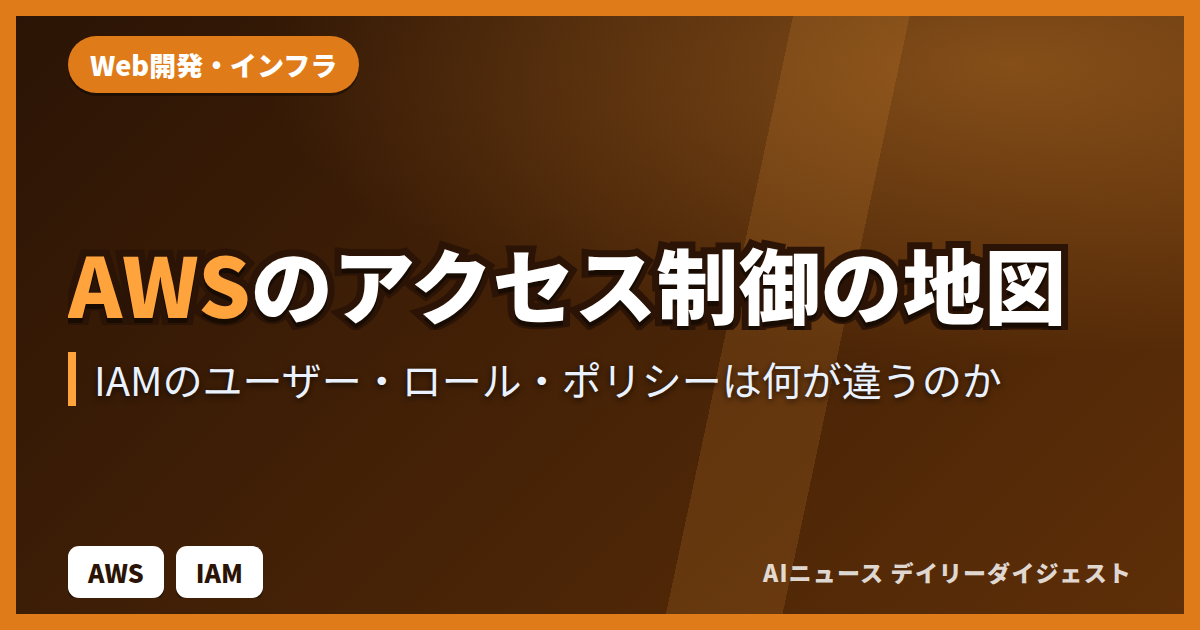
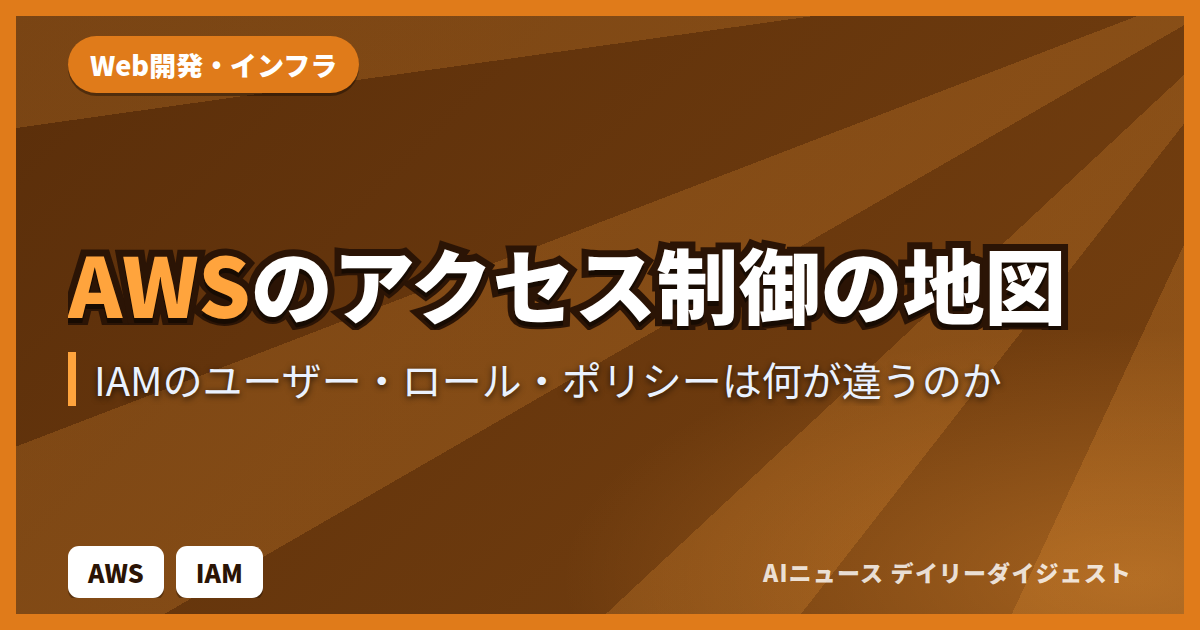
サムネイルの背景を日替わりにした
デイリーは毎日出るうえ全部同じ青なので、柄が固定だと「文字だけ違う同じ絵」が
並ぶ。キャラクター画像に頼らず、背景そのものを日ごとに変えるようにした。

variant_for() が記事ディレクトリ名の日付から、柄(6種)と濃さ(4段階)を選ぶ。
- 連続する日は必ず違う柄になる
- 同日2号目は3つずらすので、翌日ともぶつからない
  (最初 1つずらしにしたら 8/14号外 と 8/15 が同じ柄になった)
- 乱数は使わない。撮り直しても同じ絵になる

柄は最初かなり弱くして一目で分からなかったので、大きく・濃くし直した。
細かい網目は幅400pxのカードでは消える。カテゴリの色そのものは変えていない
(色で種類が分かる、という利点を壊さないため)。

全25枚を目視確認。重複なし。表示検証52通りで問題なし。

diff --git a/_render_thumbs.py b/_render_thumbs.py
@@ -79,6 +79,63 @@ DASH = re.compile(r"\s*[—–―]\s*")          # タイトルの「主題 — 
 DAILY = re.compile(r"^AI-news：\s*([\d/]+)(\s*号外)?\s*$")
 
 
+# 背景の柄。日付で切り替えて、毎日同じ絵にならないようにする。
+# カテゴリの色そのものは変えない(色で種類が分かる、という利点を壊さないため)。
+PATTERNS = {
+    # 縮小表示でも分かるよう、柄は「大きく・濃く」する。
+    # 細かい網目は 400px 幅のカードでは消えてしまう。
+    "band":  ("linear-gradient(102deg, transparent 46%, {a}3a 46%, {a}3a 60%, "
+              "transparent 60%, transparent 66%, {a}22 66%, {a}22 72%, transparent 72%)"),
+    "rays":  ("repeating-conic-gradient(from 196deg at 112% -12%, "
+              "{a}30 0deg 9deg, transparent 9deg 22deg)"),
+    "dots":  "radial-gradient({a}4a 6px, transparent 6.5px) 0 0/62px 62px",
+    "grid":  ("repeating-linear-gradient(0deg, {a}2e 0 2px, transparent 2px 78px),"
+              "repeating-linear-gradient(90deg, {a}2e 0 2px, transparent 2px 78px)"),
+    "waves": "repeating-linear-gradient(58deg, {a}30 0 7px, transparent 7px 54px)",
+    "blob":  ("radial-gradient(46% 58% at 8% 92%, {a}42 0%, transparent 62%),"
+              "radial-gradient(38% 48% at 74% 2%, {a}36 0%, transparent 64%),"
+              "radial-gradient(26% 34% at 44% 52%, {a}20 0%, transparent 66%)"),
+}
+PATTERN_KEYS = list(PATTERNS)
+
+# 明るさの振り幅。同じカテゴリ色のまま、濃さと光の位置だけ日替わりにする。
+TONES = [
+    dict(glow="110% 85% at 85% 8%",   mix=0.00),
+    dict(glow="95% 80% at 10% 14%",   mix=0.18),
+    dict(glow="120% 95% at 58% 108%", mix=0.08),
+    dict(glow="85% 72% at 96% 94%",   mix=0.26),
+]
+
+
+def _mix(hex_color, other, ratio):
+    """2色を混ぜる。同系色のまま濃さだけ動かすのに使う。"""
+    def rgb(h):
+        h = h.lstrip("#")
+        return [int(h[i:i + 2], 16) for i in (0, 2, 4)]
+    a, b = rgb(hex_color), rgb(other)
+    return "#%02x%02x%02x" % tuple(int(x + (y - x) * ratio) for x, y in zip(a, b))
+
+
+def variant_for(dirname):
+    """記事ごとの柄・色味を、日付から決める。
+
+    連続する日が必ず違う柄になるよう、日付の通し番号をそのまま使う。
+    同じ記事を撮り直しても結果は変わらない(再現性のため乱数は使わない)。
+    """
+    import datetime
+    m = re.match(r"^(\d{4})-(\d{2})-(\d{2})", dirname)
+    if m:
+        n = datetime.date(*map(int, m.groups())).toordinal()
+        # 同日に複数号あるとき用のずらし。翌日とぶつからないよう、
+        # 1号ぶんではなく柄の総数の約半分だけ動かす。
+        tail = re.search(r"_(\d+)$", dirname)
+        if tail:
+            n += (int(tail.group(1)) - 1) * 3
+    else:
+        n = sum(dirname.encode())
+    return PATTERN_KEYS[n % len(PATTERN_KEYS)], TONES[(n // len(PATTERN_KEYS)) % len(TONES)]
+
+
 def font_face(name, filename, weight):
     """フォントを data URI で埋め込む。一時HTMLを別の場所に置いても効くように。"""
     path = FONTS / filename
@@ -185,6 +242,10 @@ def build_html(meta, dirname):
     e = htmlmod.escape
 
     chara, chara_w = character_img(meta.get("category", ""))
+    pat_key, tone = variant_for(dirname)
+    pattern = PATTERNS[pat_key].format(a=t["accent"])
+    bg1 = _mix(t["bg1"], t["chip"], tone["mix"])
+    bg2 = _mix(t["bg2"], t["accent"], tone["mix"] * 0.6)
 
     # 内側の使える大きさ。枠16px + 左右パディング52px、上下は帯96+84を引く。
     # キャラクター画像がある場合だけ、そのぶんも文字から引く
@@ -204,19 +265,19 @@ def build_html(meta, dirname):
 {faces}
 *{{margin:0;padding:0;box-sizing:border-box}}
 html,body{{width:{WIDTH}px;height:{HEIGHT}px}}
-body{{font-family:'NotoJP','IPAGothic',sans-serif;background:{t['bg1']}}}
+body{{font-family:'NotoJP','IPAGothic',sans-serif;background:{bg1}}}
 .frame{{
   position:relative;width:{WIDTH}px;height:{HEIGHT}px;overflow:hidden;
   background:
-    radial-gradient(110% 85% at 85% 8%, {t['accent']}55 0%, transparent 58%),
-    linear-gradient(135deg, {t['bg1']} 0%, {t['bg2']} 100%);
+    radial-gradient({tone['glow']}, {t['accent']}55 0%, transparent 58%),
+    linear-gradient(135deg, {bg1} 0%, {bg2} 100%);
   border:16px solid {t['chip']};
   display:grid;grid-template-rows:96px 1fr 84px;padding:0 52px;
 }}
-/* 斜めの帯。単色ベタ塗りにしない */
+/* 背景の柄。日付で切り替わる(PATTERNS) */
 .frame::after{{
   content:"";position:absolute;inset:0;pointer-events:none;
-  background:linear-gradient(102deg, transparent 60%, {t['accent']}22 60%, {t['accent']}22 69%, transparent 69%);
+  background:{pattern};
 }}
 .row{{position:relative;z-index:2;padding-right:{chara_w}px;display:flex;align-items:center;gap:18px;min-width:0}}
 .cat{{

diff --git a/CLAUDE.md b/CLAUDE.md
@@ -206,6 +206,18 @@ _fetch_popular.py     # GoatCounterから閲覧数取得
 
 1. **カテゴリごとに色を変える** — 一覧に並べたとき、色だけで種類が分かる
 2. **決め文句を1つ、極端に大きく置く** — 縮小して読めるのは1〜2行だけ
+3. **背景の柄を日替わりにする** — デイリーは毎日出るので、柄が固定だと
+   「文字だけ違う同じ絵」が並ぶ
+
+### 背景の柄は日付で決まる
+
+`variant_for()` が記事ディレクトリ名の日付から、柄（6種）と濃さ（4段階）を選びます。
+
+- **連続する日は必ず違う柄になります。** 同日2号目は3つずらすので、翌日ともぶつかりません
+- **乱数は使いません。** 同じ記事を撮り直しても同じ絵になります（再現性のため）
+- 柄は `PATTERNS`、濃さは `TONES` にあります。**カテゴリの色そのものは変えません**
+  （色で種類が分かる、という利点を壊さないため）
+- 柄は**大きく・濃く**すること。細かい網目は幅400pxのカードでは消えます
 
 ### キャラクターについて
 
